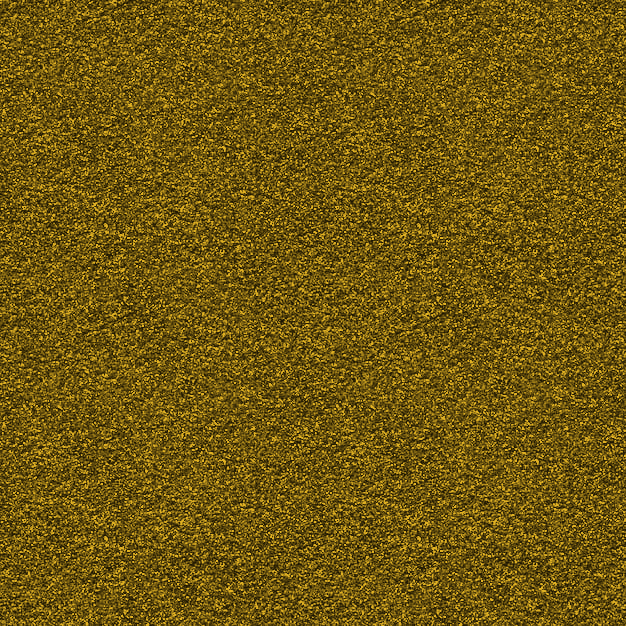
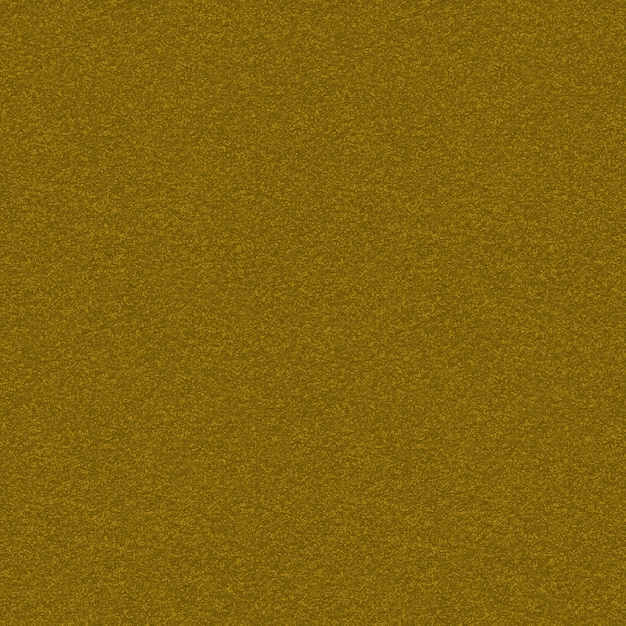
start stuff

diff --git a/EldenTracker/public/index.html b/EldenTracker/public/index.html
@@ -12,7 +12,7 @@
 
 <body>
   <nav class="navbar navbar-dark fixed-top">
-    <a class="navbar-brand" href="#">Elden Tracker</a>
+    <a class="navbar-brand" href="#">Public Builds</a>
   </nav>
   <div id="mainPage" class="container page-container">
 
@@ -22,11 +22,6 @@
   <script src="scripts/popper.js"></script>
   <script src="scripts/bootstrap-material-design.js"></script>
   <script>$("body").bootstrapMaterialDesign();</script>
-  <script src="/__/firebase/7.18.0/firebase-app.js"></script>
-  <script src="/__/firebase/7.18.0/firebase-analytics.js"></script>
-  <script src="/__/firebase/7.18.0/firebase-auth.js"></script>
-  <script src="/__/firebase/7.18.0/firebase-firestore.js"></script>
-  <script src="/__/firebase/init.js"></script>
   <script src="scripts/main.js"></script>
 </body>
 

diff --git a/EldenTracker/public/styles/main.css b/EldenTracker/public/styles/main.css
@@ -1,9 +1,17 @@
+@import url('https://fonts.googleapis.com/css2?family=Fenix&display=swap');
+
 body {
-    background: #DDDDDD;
+    background-image: url("../images/BGLOGO.png"), url("../images/graygrit.png");
+    background-repeat: no-repeat, repeat;
+    background-position: center, initial;
+    background-color: #3d3d3d;
+    font-family: 'Fenix', serif;
 }
 
 .navbar {
-    background-color: #800000;
+    background-image: url("../images/goldgrit.png");
+    background-repeat: repeat;
+    background-color: rgb(150, 111, 12);
     color: white;
 }
 
